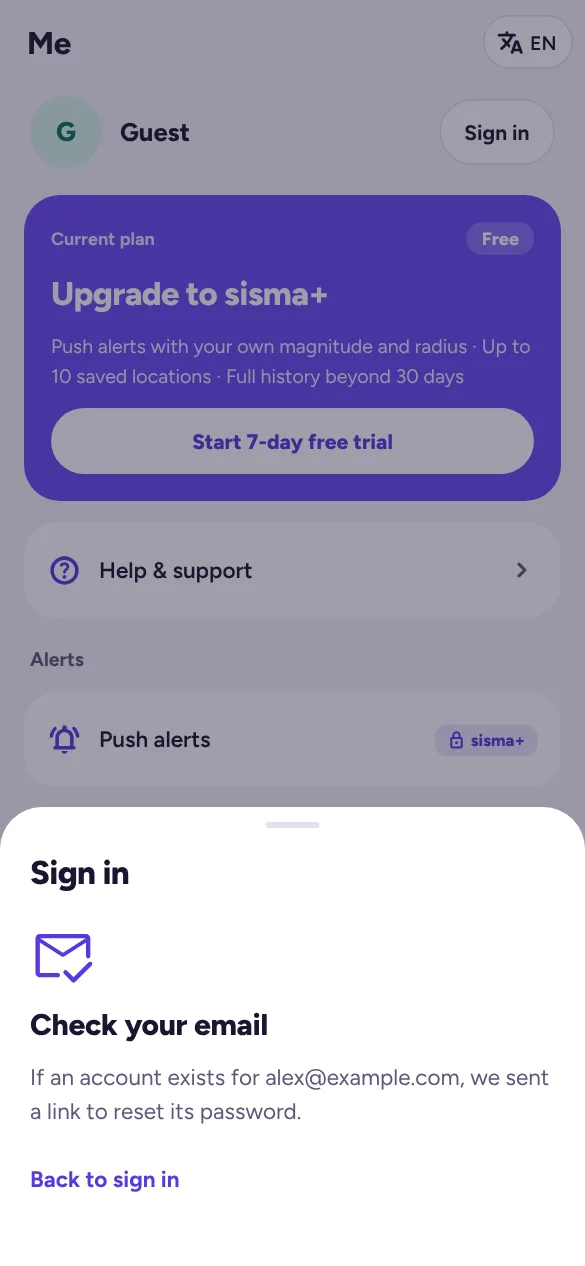
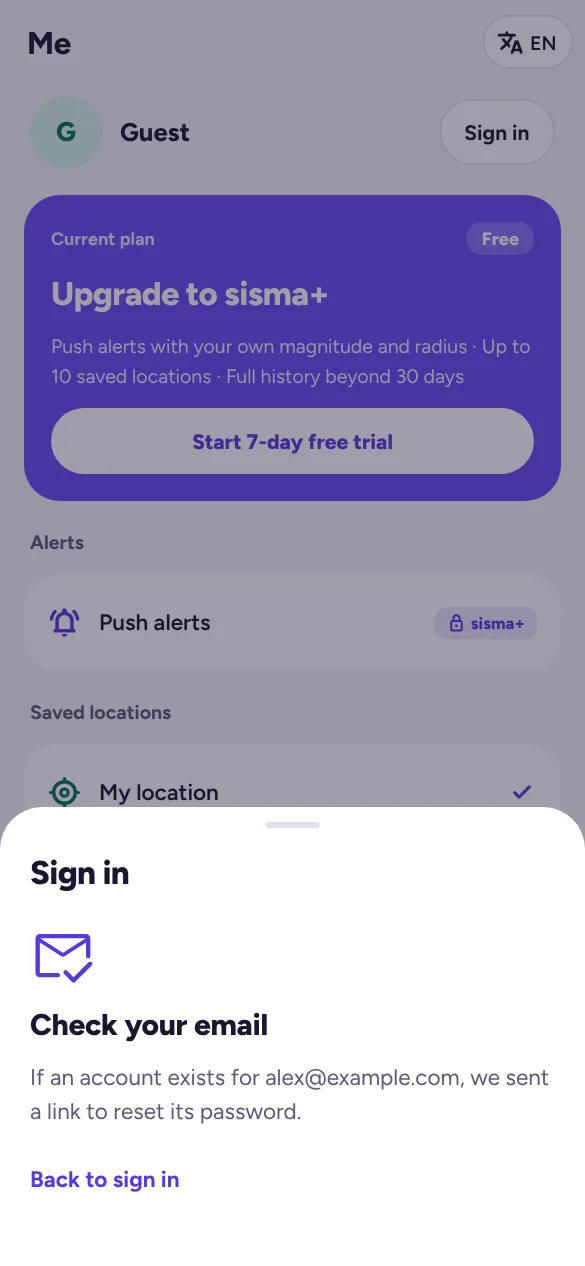
Me: Account section at the bottom
- Account (display name, email, password, sign out, help, delete) moves below Alerts, Saved locations, Settings and
  Admin; on desktop it ends the right-hand column. The guest Help row moves with it.
- Help centre: the Me screenshot now shows the Account section; the settings screenshot scrolls to Language instead of
  a fixed distance. Retook every screenshot that shows Me, in both themes.

Claude-Session: https://claude.ai/code/session_01VVoEA6g7d5oSRS2St1KTEW

diff --git a/app/src/app/app/me/page.tsx b/app/src/app/app/me/page.tsx
@@ -52,6 +52,14 @@ export default function MePage() {
 
         <PlanCard onUpgrade={() => setSheet('paywall')} />
 
+        <p className={`${styles.disclaimer} ${styles.desktopOnly}`}>{m.web.footer} <a href="/privacy" className={styles.privacyLink}>{m.web.privacy}</a> · <a href="/terms" className={styles.privacyLink}>{m.web.terms}</a></p>
+      </div>
+
+      <div className={styles.col}>
+        <Alerts onLocked={() => setSheet('paywall')} />
+        <Locations onLocked={() => setSheet('paywall')} />
+        <Preferences />
+        <AdminLink />
         {acct.user && (
           <>
             <div className={styles.sectionLabel}>{a.account}</div>
@@ -71,14 +79,6 @@ export default function MePage() {
           </>
         )}
         {!acct.user && acct.ready && <div className={styles.card}><HelpRow /></div>}
-        <p className={`${styles.disclaimer} ${styles.desktopOnly}`}>{m.web.footer} <a href="/privacy" className={styles.privacyLink}>{m.web.privacy}</a> · <a href="/terms" className={styles.privacyLink}>{m.web.terms}</a></p>
-      </div>
-
-      <div className={styles.col}>
-        <Alerts onLocked={() => setSheet('paywall')} />
-        <Locations onLocked={() => setSheet('paywall')} />
-        <Preferences />
-        <AdminLink />
         <p className={`${styles.disclaimer} ${styles.phoneOnly}`}>{m.web.footer} <a href="/privacy" className={styles.privacyLink}>{m.web.privacy}</a> · <a href="/terms" className={styles.privacyLink}>{m.web.terms}</a></p>
       </div>
 

diff --git a/app/src/app/help/topics.tsx b/app/src/app/help/topics.tsx
@@ -278,7 +278,7 @@ export const TOPICS: Topic[] = [
             <li><strong>Change your email address</strong>: this isn’t possible in the app yet. Write to <a href={`mailto:${MAIL}`}>{MAIL}</a> from your current address.</li>
           </ul>
         </div>
-        <Shot src="me" alt="Me page signed in: plan card, display name, email, password, sign out, delete account and alerts" caption="Me, signed in" />
+        <Shot src="me" alt="Account section in Me: display name, email, password, sign out, help and support, and delete account" caption="Account, at the bottom of Me" />
       </div>
 
       <h3 id="delete-account">Delete your account</h3>
